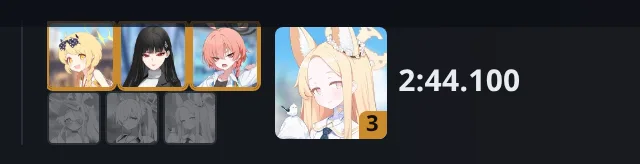
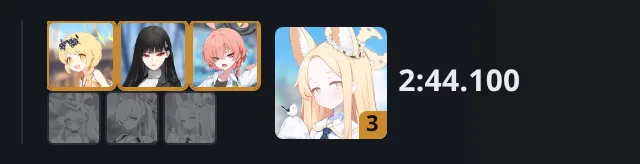
サイト: 参考画像からサイトの帯を外して撮り直す
先生の指摘「画像がエディターのヘッダーと被ってる」。`.topbar` は
`position:sticky` で道具の上に重なるので、撮る前に要素ごと外す。
13 枚とも撮り直した。

Claude-Session: https://claude.ai/code/session_01MPBvoyruoKM3PxAZ5eS1qk

Changed region(s): [[0.0625, 0.122, 0.4062, 0.1829]]

diff --git a/tl/index.html b/tl/index.html
@@ -135,7 +135,7 @@
     <figure class="shot">
       <a class="zoom" href="../images/tlg-all.webp"><img src="../images/tlg-all.webp"
         alt="TL エディタの全景。左に編成と育成、右にボスのフェーズの帯と EX を並べた盤、上に与ダメージなどの数字が並んでいる"
-        loading="lazy" width="1200" height="869"></a>
+        loading="lazy" width="1200" height="885"></a>
     </figure>
     <div class="note-box">
       <p><b>まだ開発途中です。</b>出る数字も画面の作りもこれから変わります。

diff --git a/scripts/shot-tl-editor.py b/scripts/shot-tl-editor.py
@@ -32,6 +32,11 @@ def main():
         pg.evaluate("localStorage.setItem('arona-tour-tl','1')")
         pg.reload(wait_until='networkidle')
         pg.wait_for_timeout(500)
+        # **サイトの帯（`.topbar`）を外してから撮る**（2026-09-03 の先生の指摘
+        # 「画像がエディターのヘッダーと被ってる」）。帯は `position:fixed` で
+        # 道具の上に重なるので、要素を切り取っても写り込む
+        pg.evaluate("document.querySelectorAll('.topbar').forEach(function (e) "
+                    "{ e.remove(); });")
         pg.evaluate("(t)=>{const D=window.__TLDBG;D.applyTL(D.parseTL(t));}", tl)
         pg.wait_for_timeout(1200)
         el = pg.query_selector('.tlapp')

diff --git a/scripts/shot-tl-guide.py b/scripts/shot-tl-guide.py
@@ -334,6 +334,11 @@ def main(argv):
         pg.evaluate("localStorage.setItem('arona-tour-tl','1')")
         pg.reload(wait_until='networkidle')
         pg.wait_for_timeout(600)
+        # **サイトの帯（`.topbar`）を外してから撮る**（2026-09-03 の先生の指摘
+        # 「画像がエディターのヘッダーと被ってる」）。帯は `position:fixed` で
+        # 道具の上に重なるので、要素を切り取っても写り込む
+        pg.evaluate("document.querySelectorAll('.topbar').forEach(function (e) "
+                    "{ e.remove(); });")
         pick_boss(pg, case_)
         pg.evaluate("(t)=>{const D=window.__TLDBG;D.applyTL(D.parseTL(t));}", tl)
         pg.wait_for_timeout(1500)
